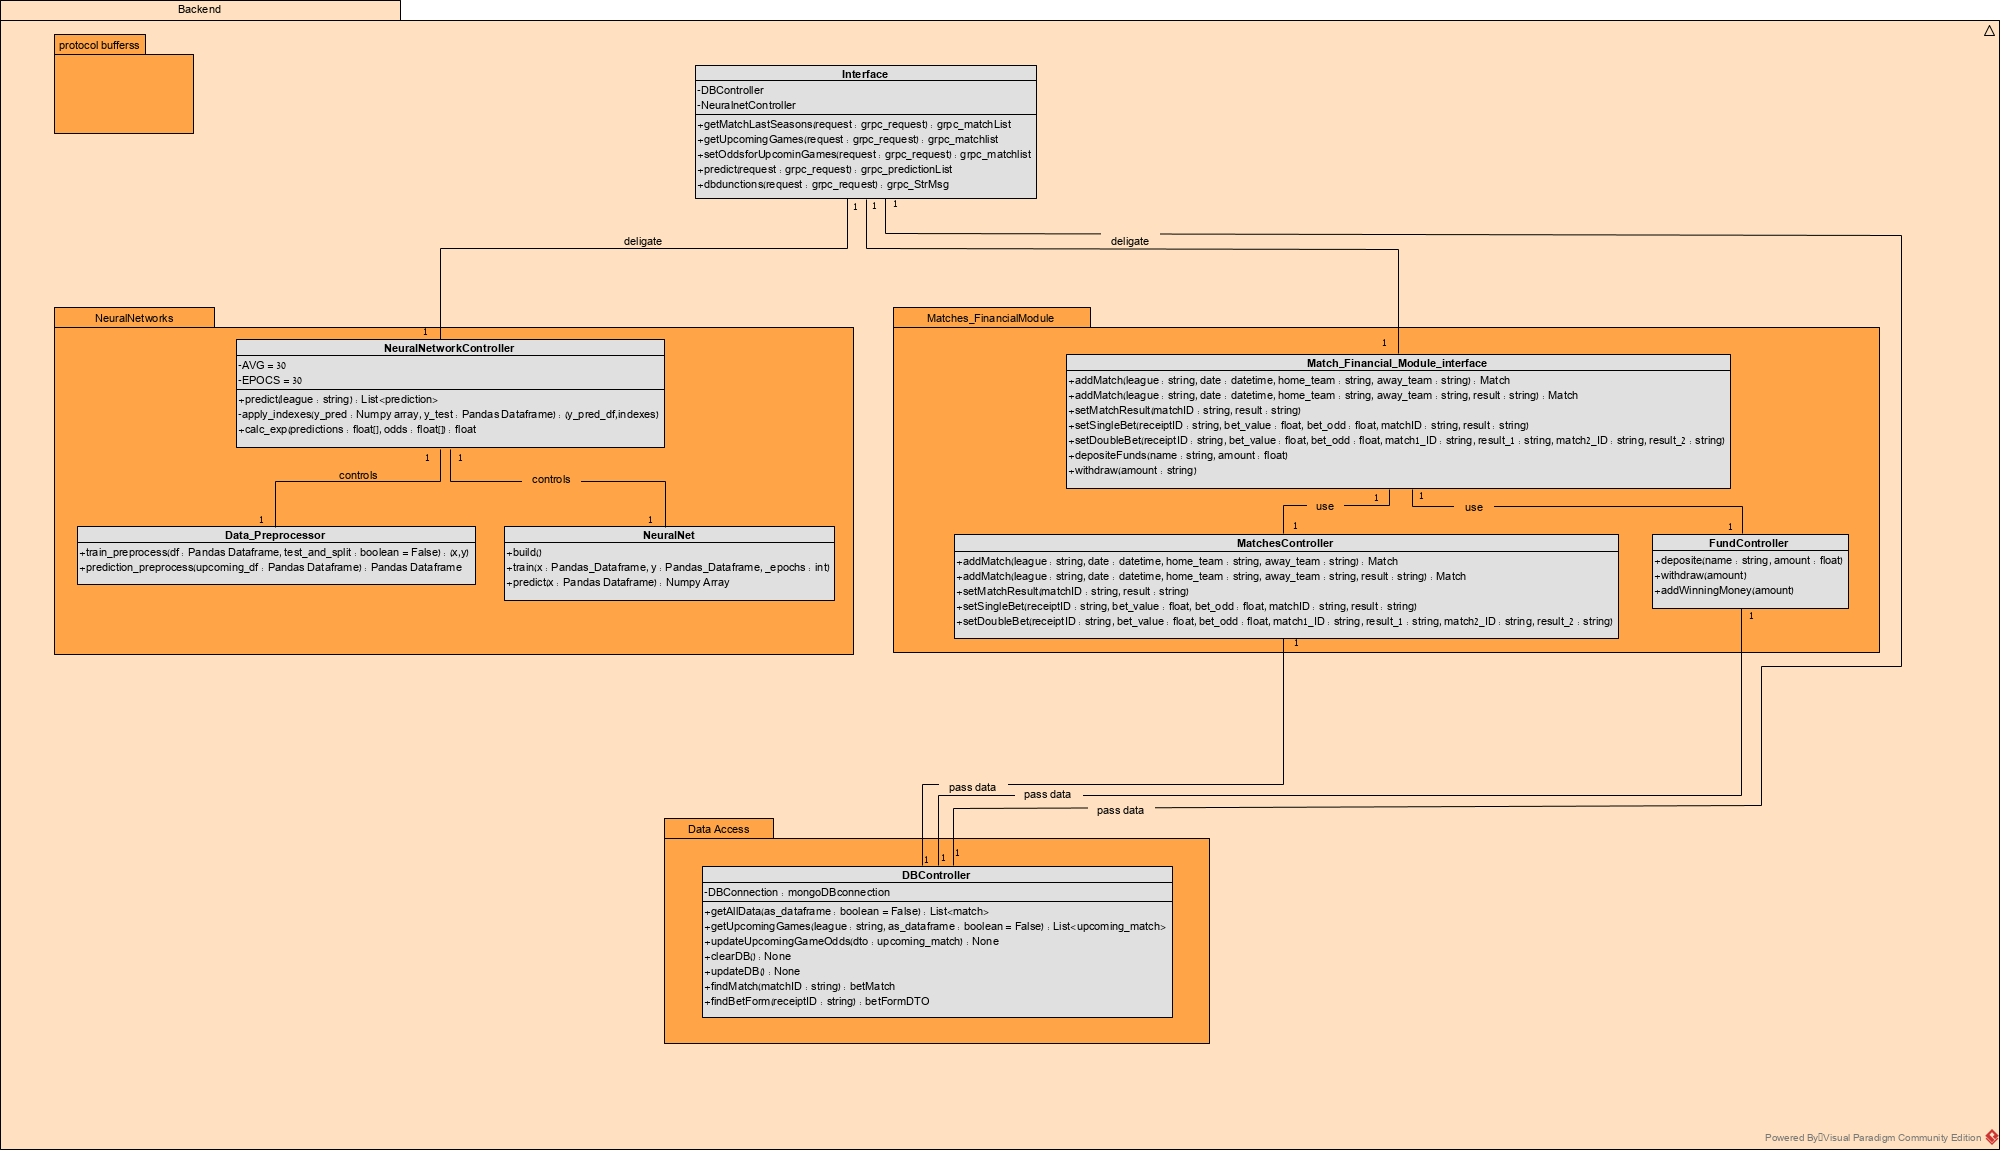
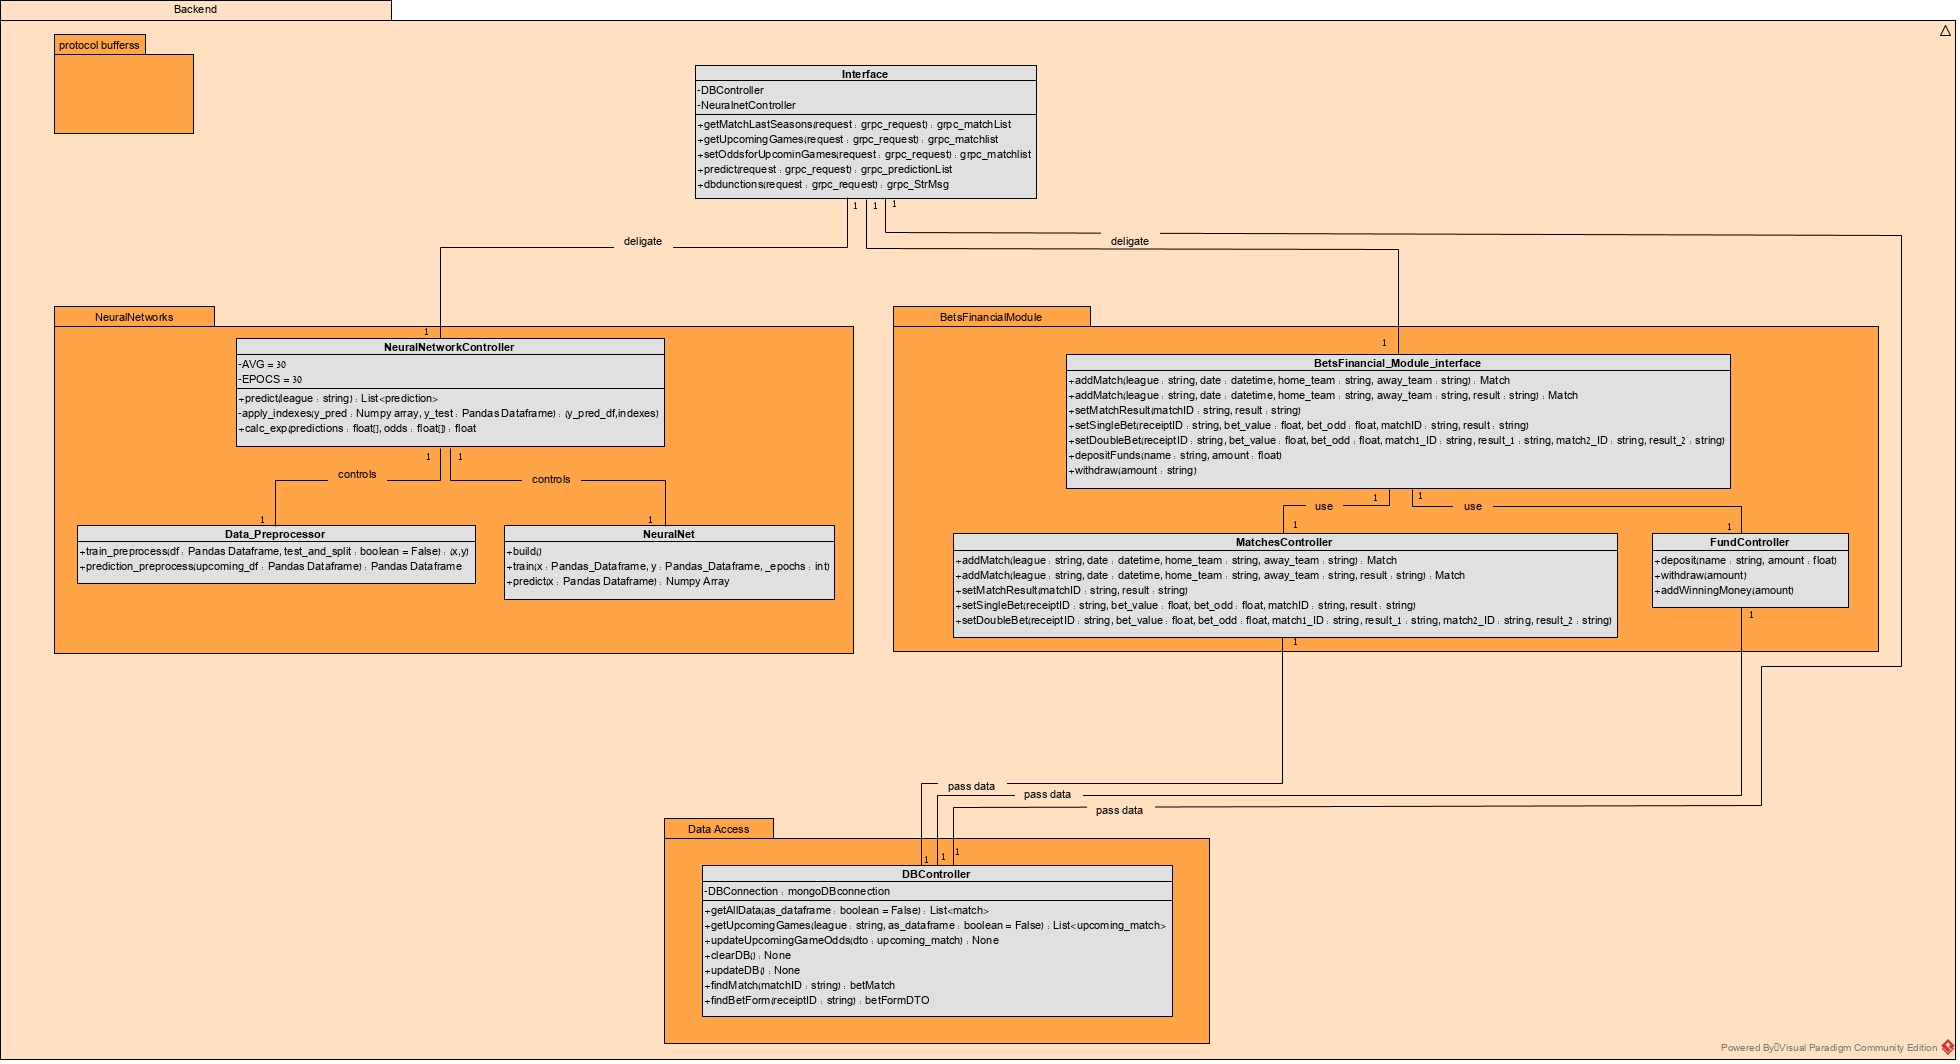
rename Persistence as DataAccess add abstract BetFinancial module update diagrams update gitignore file

diff --git a/Server/BetsFinancial/BetsFinancial_interface.py b/Server/BetsFinancial/BetsFinancial_interface.py
@@ -1,0 +1,70 @@
+#Interface of the Bets and Financials module
+
+def addMatch(league ,date ,home_team, away_team) :
+    '''
+    @param league:string , the league that the match took place.
+    @param date:datetime object, the date that the match took place.
+    @param home_team:string, name of the home team.
+    @param away_team:string, name of the way team.
+    @return Match object that represent the match
+    '''
+    return None
+
+def addMatch(league ,date ,home_team, away_team,result) :
+    '''
+    @param league:string , the league that the match took place.
+    @param date:datetime object, the date that the match took place.
+    @param home_team:string, name of the home team.
+    @param away_team:string, name of the way team.
+    @param result:string, the result of the match ('1','X','2')
+    @return: Match object that represent the match
+    '''
+    return None
+
+def setMatchResult(matchID,result):
+    '''
+    @param matchID:string, the ID of the match
+    @param result:string, the result of the match ('1','X','2')
+    @return: Match object that represent the match
+    '''
+    return None
+
+def setSingleBet(receiptID, bet_value,bet_odd,matchID,result):
+    '''
+    @param receiptID:string, receipt ID which Winner issue
+    @param bet_value:float, amount of money that place on the bet
+    @param bet_odd:float, the odds that the bets holds, given by Winner
+    @param matchID:string, the ID of the match that the bet place on
+    @param result:string, the outcome of the match we expect ('1','X','2')
+    @return:None
+    '''
+    return None
+
+def setDoubleBet(receiptID, bet_value,bet_odd,match1_ID,match2_ID,result_1,result_2):
+    '''
+    @param receiptID:string, receipt ID which Winner issue
+    @param bet_value:float, amount of money that place on the bet
+    @param bet_odd:float, the odds that the bets holds, given by Winner
+    @param match1_ID:string, the ID of the first match that the bet place on
+    @param match2_ID:string, the ID of the second match that the bet place on
+    @param result_1:string, the outcome of the first match we expect ('1','X','2')
+    @param result_2:string, the outcome of the second match we expect ('1','X','2')
+    @return:None
+    '''
+    return None
+
+def depositFunds(name,amount):
+    '''
+    @param name:string, by who the deposit was made
+    @param amount:float, how much money has been deposited
+    @return:None
+    '''
+    return None
+
+def withdraw(amount):
+    '''
+    @param amount:float, how much money has been deposited
+    @return:None
+    '''
+    return None
+

diff --git a/Server/BetsFinancial/MatchesController.py b/Server/BetsFinancial/MatchesController.py
@@ -1,0 +1,52 @@
+def addMatch(league ,date ,home_team, away_team) :
+    '''
+    @param league:string , the league that the match took place.
+    @param date:datetime object, the date that the match took place.
+    @param home_team:string, name of the home team.
+    @param away_team:string, name of the way team.
+    @return Match object that represent the match
+    '''
+    return None
+
+def addMatch(league ,date ,home_team, away_team,result) :
+    '''
+    @param league:string , the league that the match took place.
+    @param date:datetime object, the date that the match took place.
+    @param home_team:string, name of the home team.
+    @param away_team:string, name of the way team.
+    @param result:string, the result of the match ('1','X','2')
+    @return: Match object that represent the match
+    '''
+    return None
+
+def setMatchResult(matchID,result):
+    '''
+    @param matchID:string, the ID of the match
+    @param result:string, the result of the match ('1','X','2')
+    @return: Match object that represent the match
+    '''
+    return None
+
+def setSingleBet(receiptID, bet_value,bet_odd,matchID,result):
+    '''
+    @param receiptID:string, receipt ID which Winner issue
+    @param bet_value:float, amount of money that place on the bet
+    @param bet_odd:float, the odds that the bets holds, given by Winner
+    @param matchID:string, the ID of the match that the bet place on
+    @param result:string, the outcome of the match we expect ('1','X','2')
+    @return:None
+    '''
+    return None
+
+def setDoubleBet(receiptID, bet_value,bet_odd,match1_ID,match2_ID,result_1,result_2):
+    '''
+    @param receiptID:string, receipt ID which Winner issue
+    @param bet_value:float, amount of money that place on the bet
+    @param bet_odd:float, the odds that the bets holds, given by Winner
+    @param match1_ID:string, the ID of the first match that the bet place on
+    @param match2_ID:string, the ID of the second match that the bet place on
+    @param result_1:string, the outcome of the first match we expect ('1','X','2')
+    @param result_2:string, the outcome of the second match we expect ('1','X','2')
+    @return:None
+    '''
+    return None

diff --git a/Server/BetsFinancial/BetForm.py b/Server/BetsFinancial/BetForm.py
@@ -1,0 +1,18 @@
+from datetime import datetime
+
+
+class BetForm:
+    def __init__(self,receiptID,bet_value,bet_odd,bets_list):
+        '''
+        @param receiptID:string, receipt ID which Winner issue
+        @param bet_value:float, amount of money that place on the bet
+        @param bet_odd:float, the odds that the bets holds, given by Winner
+        @param bets_list:list of tuples that each tuple hold Match object and result e.g (Match,result)
+        '''
+        self.date=datetime.date()
+        self.receiptID=receiptID
+        self.bet_value=bet_value
+        self.bet_odd=bet_odd
+        self.isWin=False
+        self.profitExpectation=(self.bet_odd*self.bet_value)-1
+        self.bets=bets_list

diff --git a/Server/BetsFinancial/FundsController.py b/Server/BetsFinancial/FundsController.py
@@ -1,0 +1,21 @@
+def depositFunds(name,amount):
+    '''
+    @param name:string, by who the deposit was made
+    @param amount:float, how much money has been deposited
+    @return:None
+    '''
+    return None
+
+def withdraw(amount):
+    '''
+    @param amount:float, how much money has been deposited
+    @return:None
+    '''
+    return None
+
+def addWinningMoney(amount):
+    '''
+    @param amount:float, the amount of money that the bet has ben yield
+    @return:None
+    '''
+    return None

diff --git a/Server/Interface.py b/Server/Interface.py
@@ -5,8 +5,8 @@ from datetime import date, datetime
 from concurrent import futures
 from dateutil.parser import parse
 #from Server.protocs import match_pb2_grpc, match_pb2
-from Server.Persistent.DTOs import match
-from Server.Persistent import DBController
+from Server.DataAccess.DTOs import match
+from Server.DataAccess import DBController
 from Server.NeuralNetwork import NeuralNetworkController
 
 match_pb2, match_pb2_grpc = protol.load('protocs/match.proto')

diff --git a/Server/NeuralNetwork/NeuralNetworkController.py b/Server/NeuralNetwork/NeuralNetworkController.py
@@ -2,8 +2,8 @@ import numpy as np
 import pandas as pd
 import Server.NeuralNetwork.data_preproccesor as data_preprocessor
 from Server.NeuralNetwork.neuralnet import NeuralNet
-from Server.Persistent import DBController
-from Server.Persistent.DTOs import prediction as Prediction
+from Server.DataAccess import DBController
+from Server.DataAccess.DTOs import prediction as Prediction
 
 AVG = 30
 EPOC = 30

diff --git a/Server/DataAccess/DBController.py b/Server/DataAccess/DBController.py
@@ -1,5 +1,5 @@
-from Server.Persistent.DTOs import match
-from Server.Persistent.MongoDBConnection import MongoDBConnection
+from Server.DataAccess.DTOs import match
+from Server.DataAccess.MongoDBConnection import MongoDBConnection
 import pandas as pd
 
 DBConnection = MongoDBConnection()

diff --git a/Server/protocol.py b/Server/protocol.py
@@ -1,4 +1,4 @@
-from Server.Persistent.DTOs import match
+from Server.DataAccess.DTOs import match
 from datetime import date
 
 def responseToMatchDTO(response):
